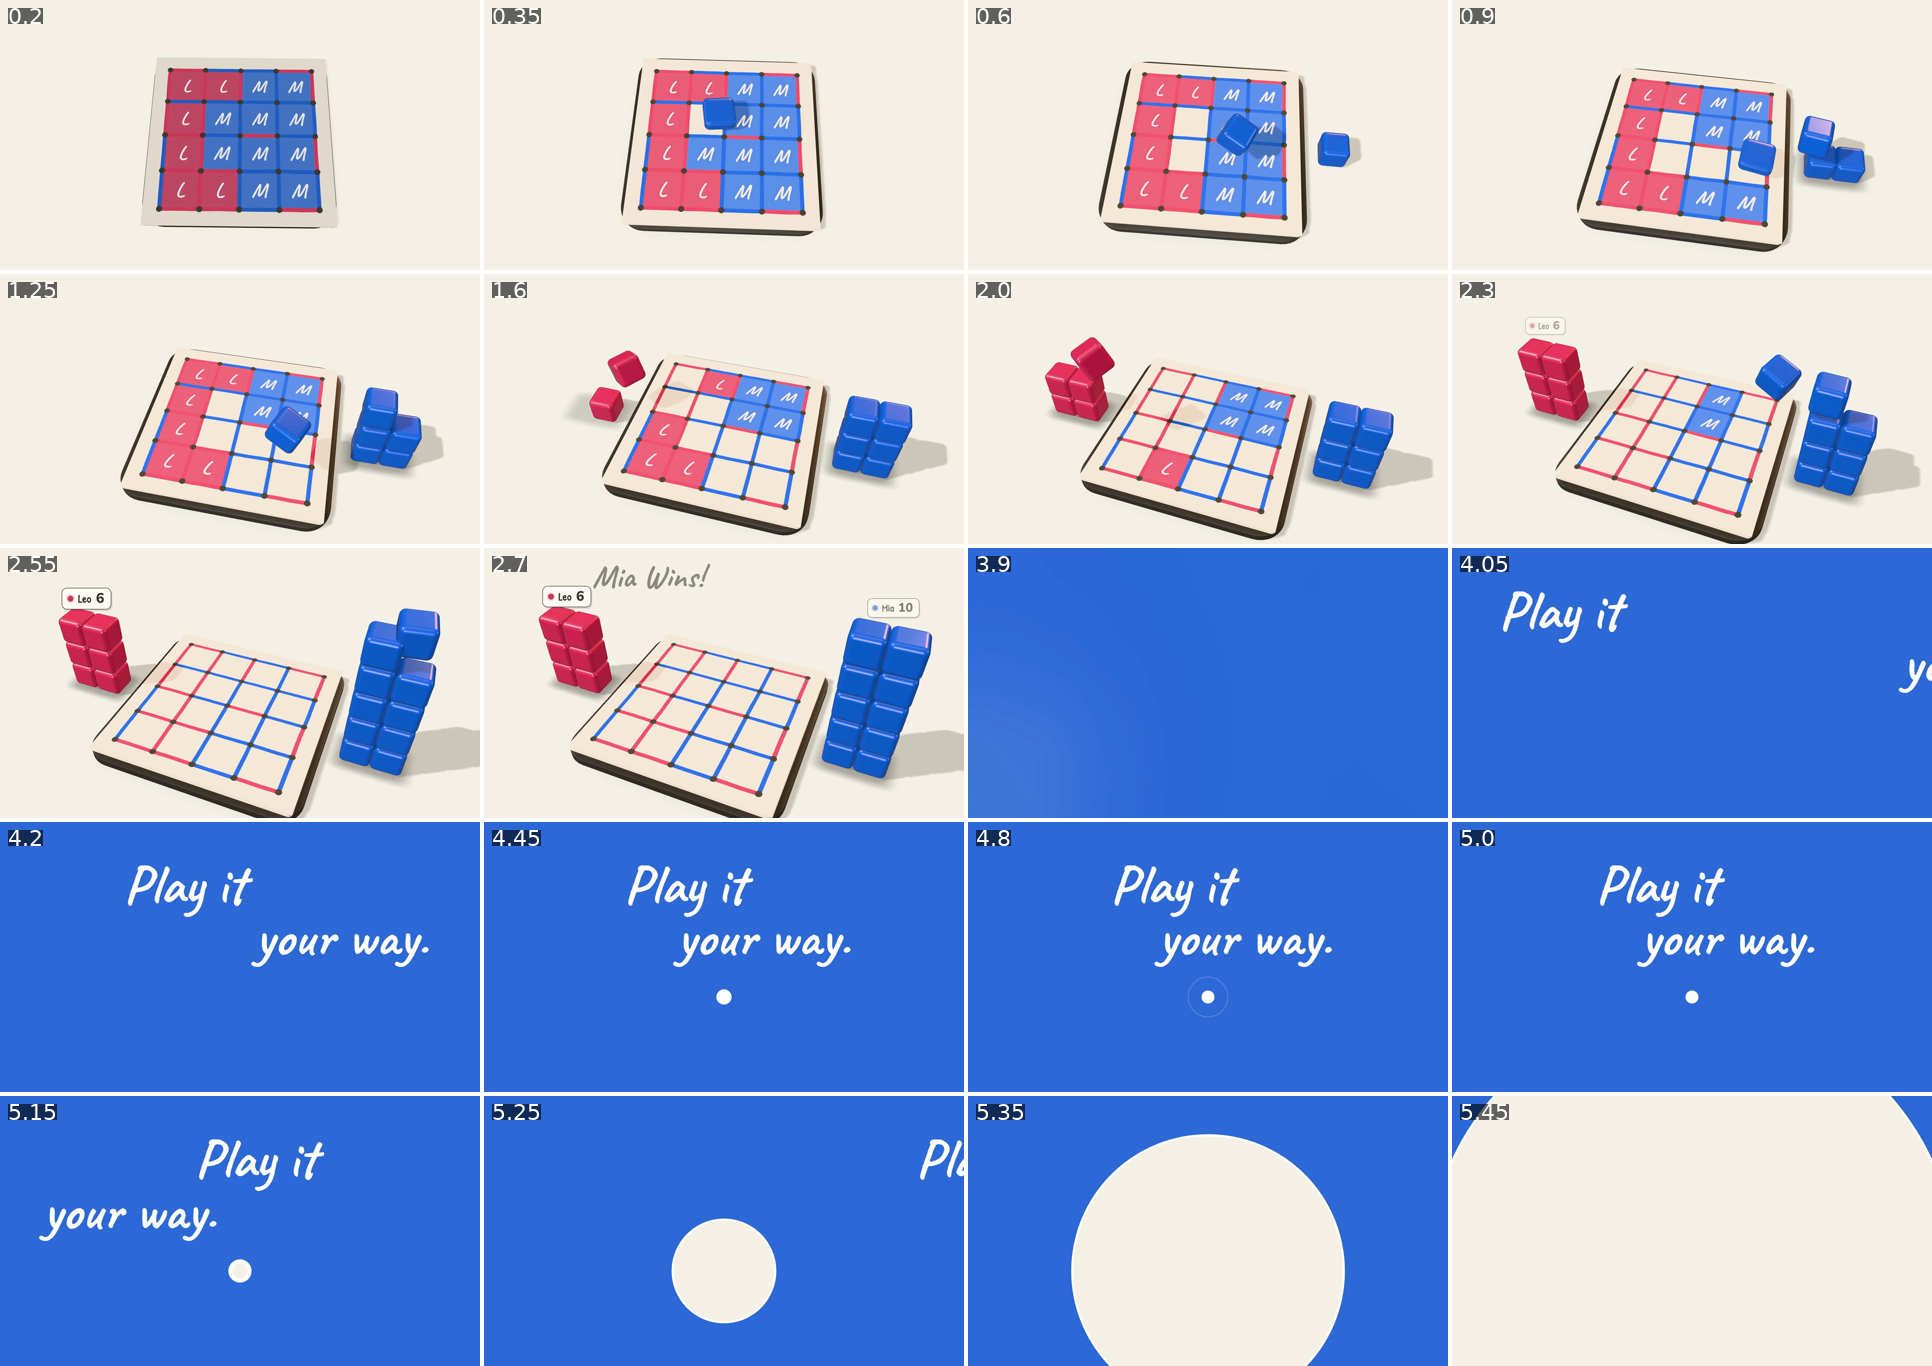
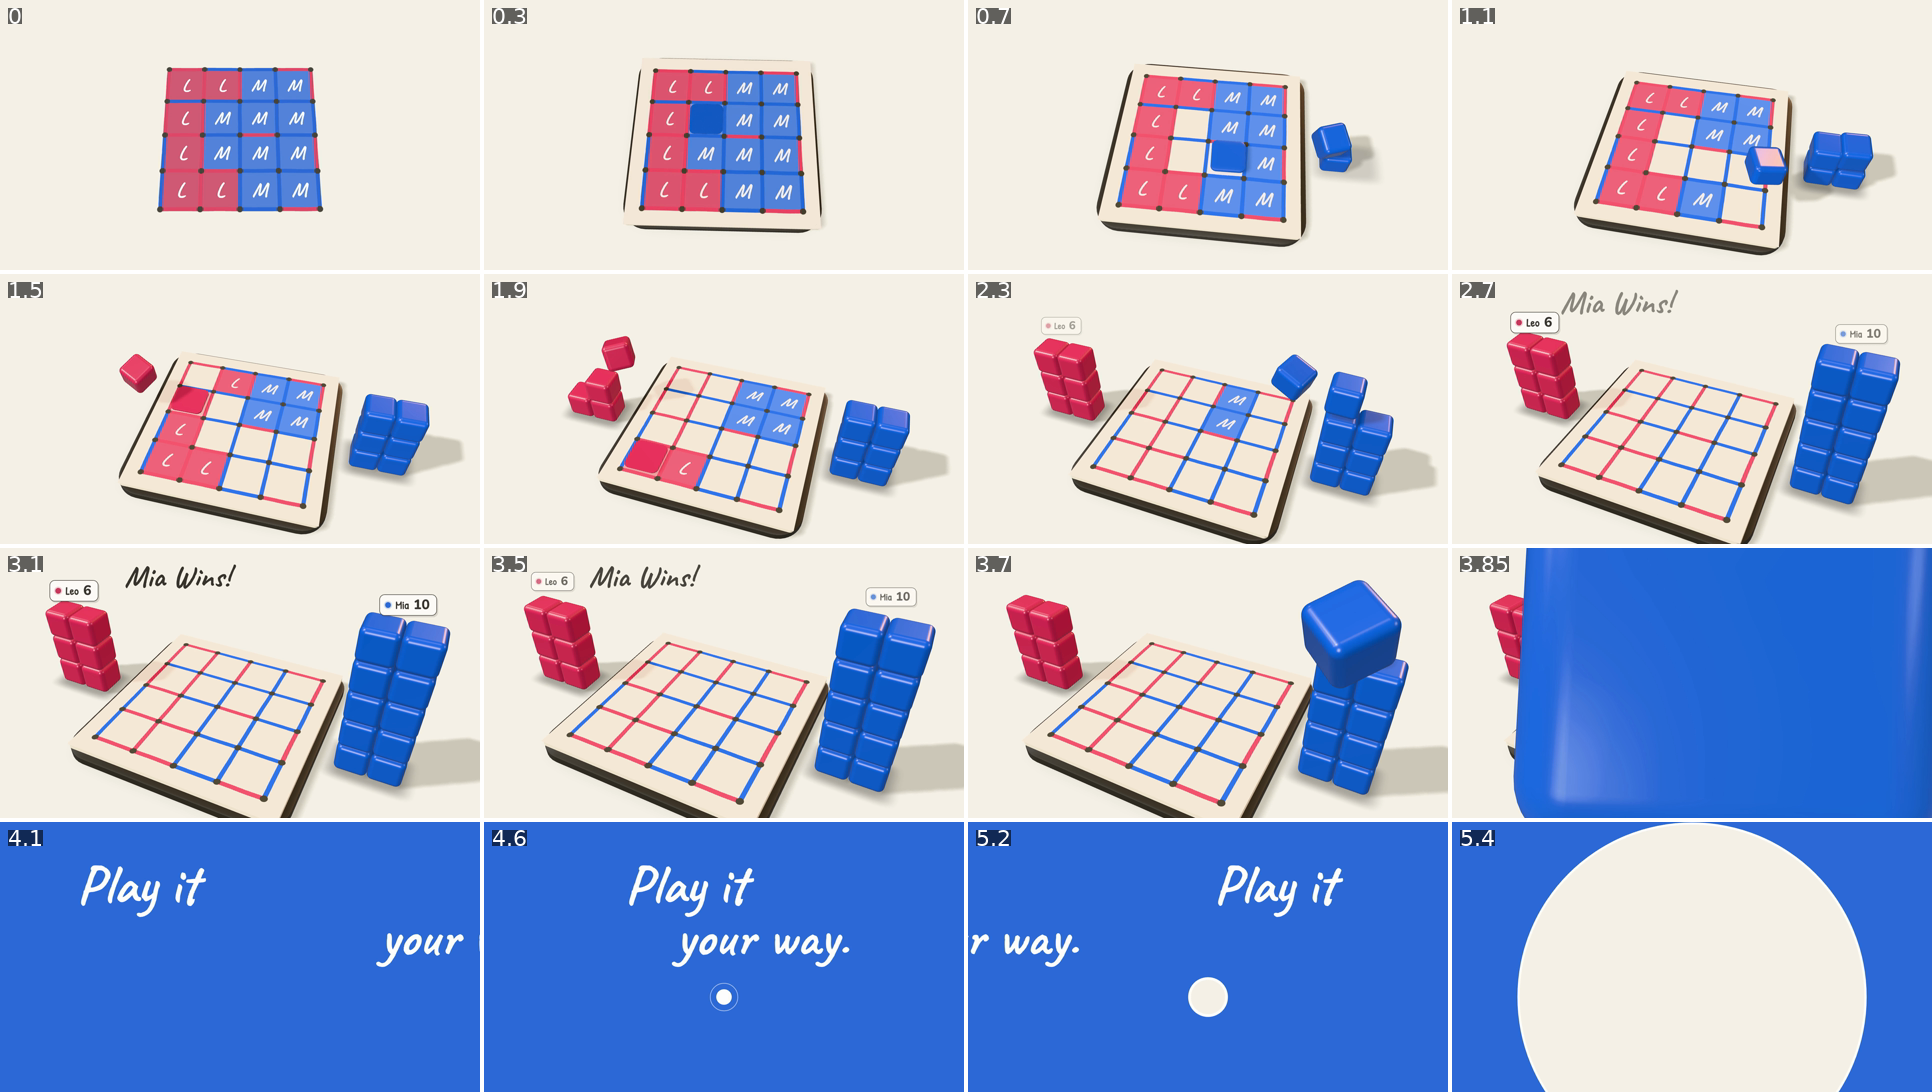
Ledger: modes critic round 1
Claude-Session: https://claude.ai/code/session_015djpT82mPv6pF3coxQuzAb

diff --git a/promo/scenes/board.js b/promo/scenes/board.js
@@ -66,8 +66,8 @@ export default {
         [5.2, [334, 1.55, 1.29], SINE],
         [5.65, [420, 1.5, 2.3], GLIDE],
         [6.7, [431, 1.5, 2.29], SINE],
-        [7.05, [380, 3.0, 2.9], WHIP],
-        [8.4, [368, 3.06, 3.06], SINE],
+        [7.05, [380, 3.0, 2.68], WHIP],
+        [8.4, [368, 3.06, 2.86], SINE],
         [T_END, [CB.gap, FC[0], FC[1]], LAND],
       ],
       w1: { x: 64, y: 96, size: 176 }, w2: { r: 1016, y: 1650, size: 176 },

diff --git a/promo/review/modes/critic1.md b/promo/review/modes/critic1.md
@@ -1,0 +1,24 @@
+# Critic 1 — modes (lab 0–9.5 / film 15.0–24.5)
+
+**Verdict: REVISE.** The craft is strong: the UI strings match `index.html`/`main.js`, the capturer keeps TURN (Sam, Computer), lab 0 is already a finished frame, and the ending leaves only the green line (clean from about 9.3). No run of frames is frozen longer than 0.25 s in either aspect. Four problems block KEEP: two headlines collide with the phone, the vertical online section is far too small, two mode switches happen with no action causing them, and the boards are not real game sizes.
+
+## Defects, ranked
+
+1. **V, 6.4–9.0 (online), whole frame.** The two phones sit on a diagonal, each only about 32–35 % of the frame width, with an empty band around y 1000–1260 and at the sides. The subject is well under 60 % of the frame. At 8.4 the "Mia" and "Leo" names are about 12 px tall and TURN about 8 px, which cannot be read at phone viewing size. This takes up 27 % of the component.
+2. **H, 3.7–5.9, left third.** The "Computer" headline runs over the phone bezel and side buttons: the "er" sits on top of the frame lines (crop-h43-collide.png).
+3. **V, 6.4–9.0, top.** The descender of the "y" in "Play online" touches the top outline of the upper phone (crop-v84.png).
+4. **Both, 3.40–3.47 and 6.05–6.35. There is no cause for the mode change.** The setup card or lobby slides in over about 3 frames at 30 fps, with no tap on "‹ Back" or on a mode button. This breaks cursor causality. The 3.4 cut is close to a snap, since it lasts about 0.1 s.
+5. **Both, all three modes. The boards are not real sizes.** Pass & Play uses 2×2 dots and the other modes use 3×3 dots. The lobby and setup show **5×5** selected, but the game that follows has 3×3 dots. F13 says a phone board has 4–7 dots per side.
+6. **Both, 2.5–3.4. The fill colour is wrong.** Sam's captured box fills brown, rgb(171,99,32). The game draws the player colour at 0.82 opacity (`styles.css:228`), which on paper would be about rgb(235,155,66). The "+1" is also brown and measures 3.7:1 against paper.
+7. **H 8.0–9.0 and V 8.0–9.0.** A blue bar floats between the phones, drifting slowly at constant speed (frame difference holds at 0.37–0.51). It does not start at a tap and does not end on the second board, so it reads as a leftover shape rather than "your move arrives". The mix from blue to green passes through a muddy teal, about #2a8aa0, around 9.1–9.2.
+8. **Contrast.** The red TURN badge (Leo/Computer) measures **4.1:1**, below 4.5. The other measured text passes: the headlines are 11.3, the "2–4 players" chip 5.5, and the grey labels and hints 5.2–5.9.
+9. **H, 6.3–6.5.** "Play online" types on while the single phone sits at the left, so the right half of the frame is empty paper for about 0.2 s.
+10. **Low motion.** The camera drifts at constant speed with little else happening at 4.75–5.0, 6.8–7.5 and 8.0–8.5 in both aspects.
+
+## The 3 highest-value fixes
+
+1. **Rebuild the vertical online layout.** Keep the carried phone at 70 % or more of the frame width, with its top at y 330 or lower. Have the second phone slide in overlapping it by about 25 %, or place the two phones in stacked halves each at least 85 % wide. Aim for UI name text of 24 px or more. Add a check against each headline's bounding box: at least 24 px clearance between the headline and any phone outline, in both aspects. In the horizontal version, shift the phone right by about 120 px or set "vs Computer" smaller.
+2. **Give every change a cause.** Before 3.4 and before 6.0, show a tap with a ripple on "‹ Back", then a mode chip or button. Replace the 0.1 s snap with an eased push of about 0.3–0.4 s. In the online section, have Mia tap the middle edge on the left phone. The line should leave from that tap point, travel between the phones with an ease-out, and land as the same edge on Leo's board, with TURN switching as it lands. Then turn it green from the paper side instead of mixing through teal.
+3. **Match the game's render.** Use a 4×4 or 5×5 dot board, and make it match the selected chip (or select 4×4). Draw box fills as the player colour at 0.82 opacity, not darkened. Darken the red TURN text, or tint its badge background, to reach 4.5:1 or more.
+
+Evidence is in `critic1/`: sheet-h.png, sheet-v.png, d1–d3-{h,v}.png (1/30 s frame strips), grid-*.png, crop-*.png, and diff-{h,v}.txt (frame-difference data).

diff --git a/promo/review/LEDGER.md b/promo/review/LEDGER.md
@@ -9,3 +9,4 @@ Critics never see the builder's reasoning; each round's critic is a new agent.
 | SB-1 | `STORYBOARD.md` v1 | (1) #8–#11 a feature slideshow of small devices; (2) chain maths wrong vs code (combo would reach 5x, bonus pill timing, Leo's boxes from nowhere); (3) invented "thinking" dots, Sam's capture shown without its result; (4) player-colour text fails 4.5:1; (5) too many words 14–20.5 s; (6) 3D handoff forces top-down, towers 9 vs 7 barely differ; (7) URL won't fit 9:16; (8) brand + CTA 7 s and repetitive; (9) "no download"/"one phone" not in facts; (10) frame 0 mostly bare paper | v2: one phone carries s08–s10 (cut the devices beat); gameplay now generated and validated by the game's own `engine.js` + `ai.js` (`tools/game-script.mjs` → `shared/game.json`, 2x→5x COMBO, final 10–6); real UI strings only (TURN badge, Computer card); ink/accent-ink text, deep tones under white; ≤ 3-word headlines; tilt starts in 2D (22°) and 3D takes over mid-tilt; URL 40 px/two lines in 9:16; brand 2.0 s + CTA 3.5 s; "No install · No sign-up", "one device"; pen + hand shadow in frame 0, pull-back at 1.1 s | compositions 13 → 12 (+ 2 inside the 3D beat); on-screen claims all in FACTS.md |
 | C-brand-1 | `review/brand/proof-{h,v}.mp4` (24.5–30.0) | REVISE: (1) lab 2.75–5.5 constant-speed ~1.7 % zoom only, frame-diff 0.08–0.15 (reads frozen); (2) CTA text only fades in; (3) ~0.2 s of bare lower frame mid-move; (4) mark lines 6.5 px below dot centres; (5) 9:16 URL split and small (~45 px); (6) 16:9 end-card mark small | Sent back to builder: eased settle + live beats (underline draw, box re-pop), masked word rises + pill overshoot overlapping the logo move, fix line/dot alignment, one-line 9:16 URL, 1.4× mark. Critic's "solid #2f6bd8 box" rejected: the real game mark is #3f6fd8 @ 0.75 | contrast measured 5.4–12.1:1 (pass); frame-diff during end card 0.08–0.15 → pending |
 | V-brand-2 | revised `review/brand/proof-{h,v}.mp4` | SHIP. Items 1,2,4,5,6 FIXED (eased push + underline draw + box pulse; masked word rises; lines on dot centres; one-line 9:16 URL, 60 px margins; mark 205 px); item 3 PARTLY (bare lower half 0.1 s h / 0.2 s v, at peak motion). Polish: 9:16 "Play free" 0.1 s earlier; bigger box pulse | Applying both polish items | end-card frame-diff 0.08–0.15 → 0.35–1.5; frozen 0.9 s → 0.3–0.4 s; contrast 5.4–13.2:1 |
+| C-modes-1 | `review/modes/proof-{h,v}.mp4` (15.0–24.5) | REVISE: (1) 9:16 online phones ~1/3 width, names 12 px; (2) headlines touch phone (16:9 "vs Computer", 9:16 "Play online"); (3) setup/lobby screens arrive with no tap, one near-snap; online line drifts, doesn't land as an edge; teal colour pass; (4) 2×2/3×3 boards aren't real sizes; (5) red TURN 4.1:1, orange "+1" 3.7:1; (6) empty right half 6.3–6.5, constant-speed drifts | Sent back: rebuild 9:16 online large/overlapping, ≥ 24 px headline clearance, taps on Back + mode buttons with eased pushes, line from tap → same edge on both boards, real 4×4/5×5 boards, darker badge/+1 text. Critic's "0.82 orange fill" rejected (white mark would fail 4.5:1) | frozen ≤ 0.25 s (pass); headline contrast 11.3:1 → pending |
